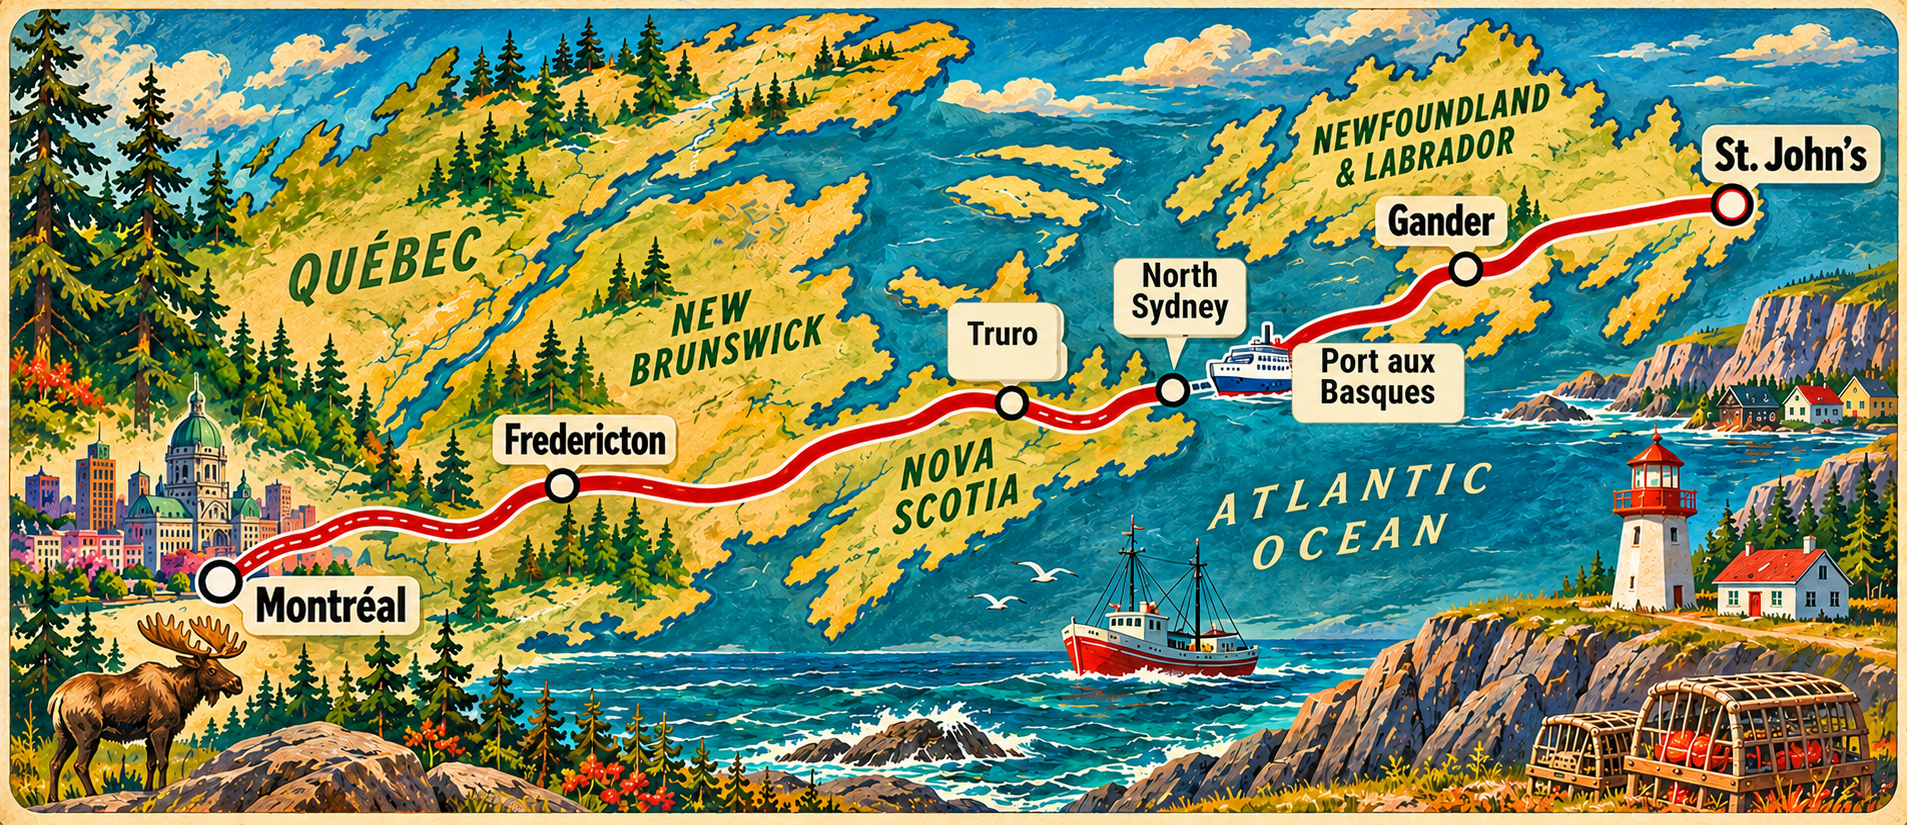
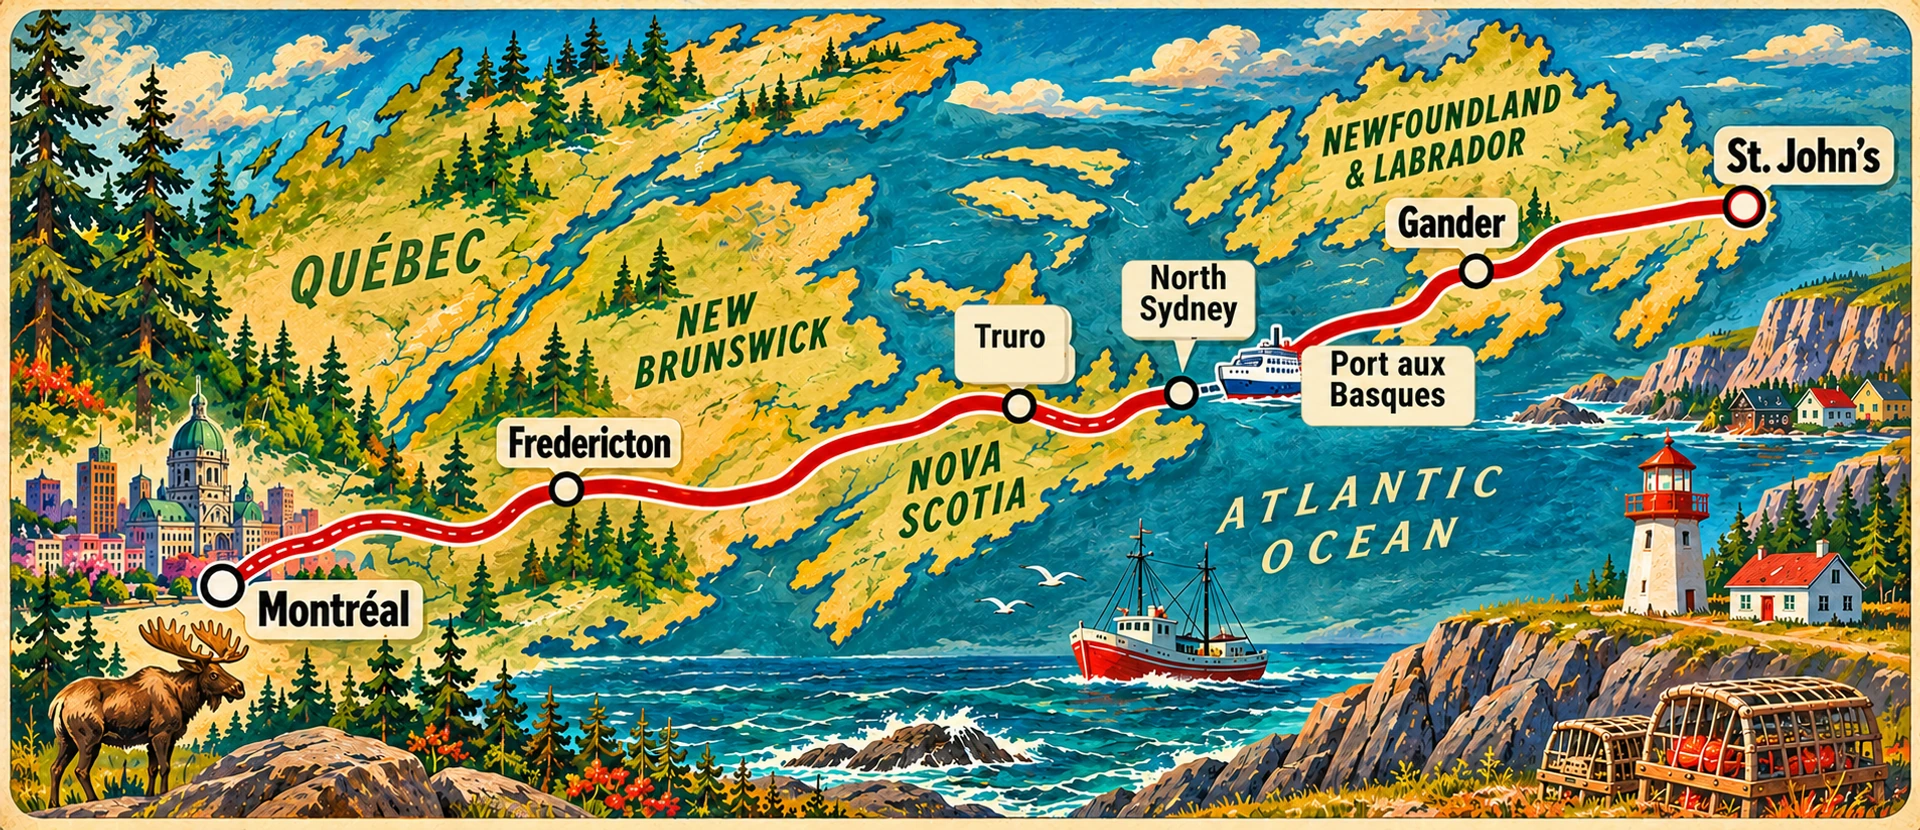
Qualify CCC artwork and retire obsolete local-only launch assertion
Use real verified WebP atlas masters from the multiplayer branch instead of mismatched PNG uploads, and assert the 420ID room route in BC-0.3.

Changed region(s): [[0.0, 0.0, 1.0, 1.0], [0.526, 0.0, 0.5569, 0.0303]]

diff --git a/bong-goggles/web/test/shared-game-ui.test.js b/bong-goggles/web/test/shared-game-ui.test.js
@@ -75,10 +75,11 @@ test('BC-0.3 opponent setup exposes seat types and all bot difficulties but cann
  assert.match(renderClassicGamePage('chess',{screen:'setup'}),/Seat 2/);
  assert.doesNotMatch(renderClassicGamePage('chess',{screen:'setup'}),/Seat 3/);
 });
-test('BC-0.3 local Chaos launches only its existing approved game, not a fake service',()=>{
- const local=renderClassicGamePage('cross-country-chaos',{screen:'play'});
- assert.match(local,/href="\/classics\/cross-country-chaos" data-route="chaos-game">Play Cross-Country Chaos \(local\)/);
- assert.match(local,/save|resume|pass-and-play/i);
+test('BC-0.3 Chaos launches separate 420ID account rooms instead of local pass-and-play',()=>{
+ const game=renderClassicGamePage('cross-country-chaos',{screen:'play'});
+ assert.match(game,/href="\/classics\/cross-country-chaos" data-route="chaos-game">Play Cross-Country Chaos<\/a>/);
+ assert.match(game,/Separate 420ID accounts|private room/i);
+ assert.doesNotMatch(game,/Play Cross-Country Chaos \(local\)|pass-and-play/i);
  const planned=renderClassicGamePage('cribbage',{screen:'play'});
  assert.match(planned,/disabled aria-disabled="true"/);
  assert.match(planned,/Resume game/);

diff --git a/bong-goggles/web/core/chaos-map-art.js b/bong-goggles/web/core/chaos-map-art.js
@@ -12,11 +12,11 @@ const board=(region,underlay,foreground)=>Object.freeze({
 });
 export const CHAOS_MAP_DIMENSIONS=Object.freeze({width:1920,height:830,svgWidth:960,svgHeight:415});
 export const CHAOS_MAP_ART=Object.freeze({
- east:board('east',{bytes:3393494,sha:'508aa63f621c52430d8583d2152bb4ae927df17d'},
+ east:board('east',{bytes:720608,sha:'9495391985d608f20a0ca38f0c918b5b0a2a20ed'},
   {bytes:81202,sha:'9cb615c5515687b25f6beda126440546675ee74c'}),
- ontario:board('ontario',{bytes:3660605,sha:'6f92f4c032722762143e8a1bdf6fe8cfffec2541'},
+ ontario:board('ontario',{bytes:839708,sha:'b572aaba03bbed1f2a807a0f8b975b993a367e6f'},
   {bytes:81022,sha:'abf96780fa09d691d8509a35b1fa77ced747f0c5'}),
- west:board('west',{bytes:3646229,sha:'26c5db581aa199a867ef5f9126b717c97490ca4f'},
+ west:board('west',{bytes:841752,sha:'4ae57d4a1607783aa69504d4aef5567f8d75c3d9'},
   {bytes:81802,sha:'51c25fc224ead140b800976a4cd1ef5e56aa900c'})
 });
 export const CHAOS_MAP_ASSETS=Object.freeze(Object.values(CHAOS_MAP_ART).flatMap(x=>[x.underlay,x.foreground]));
